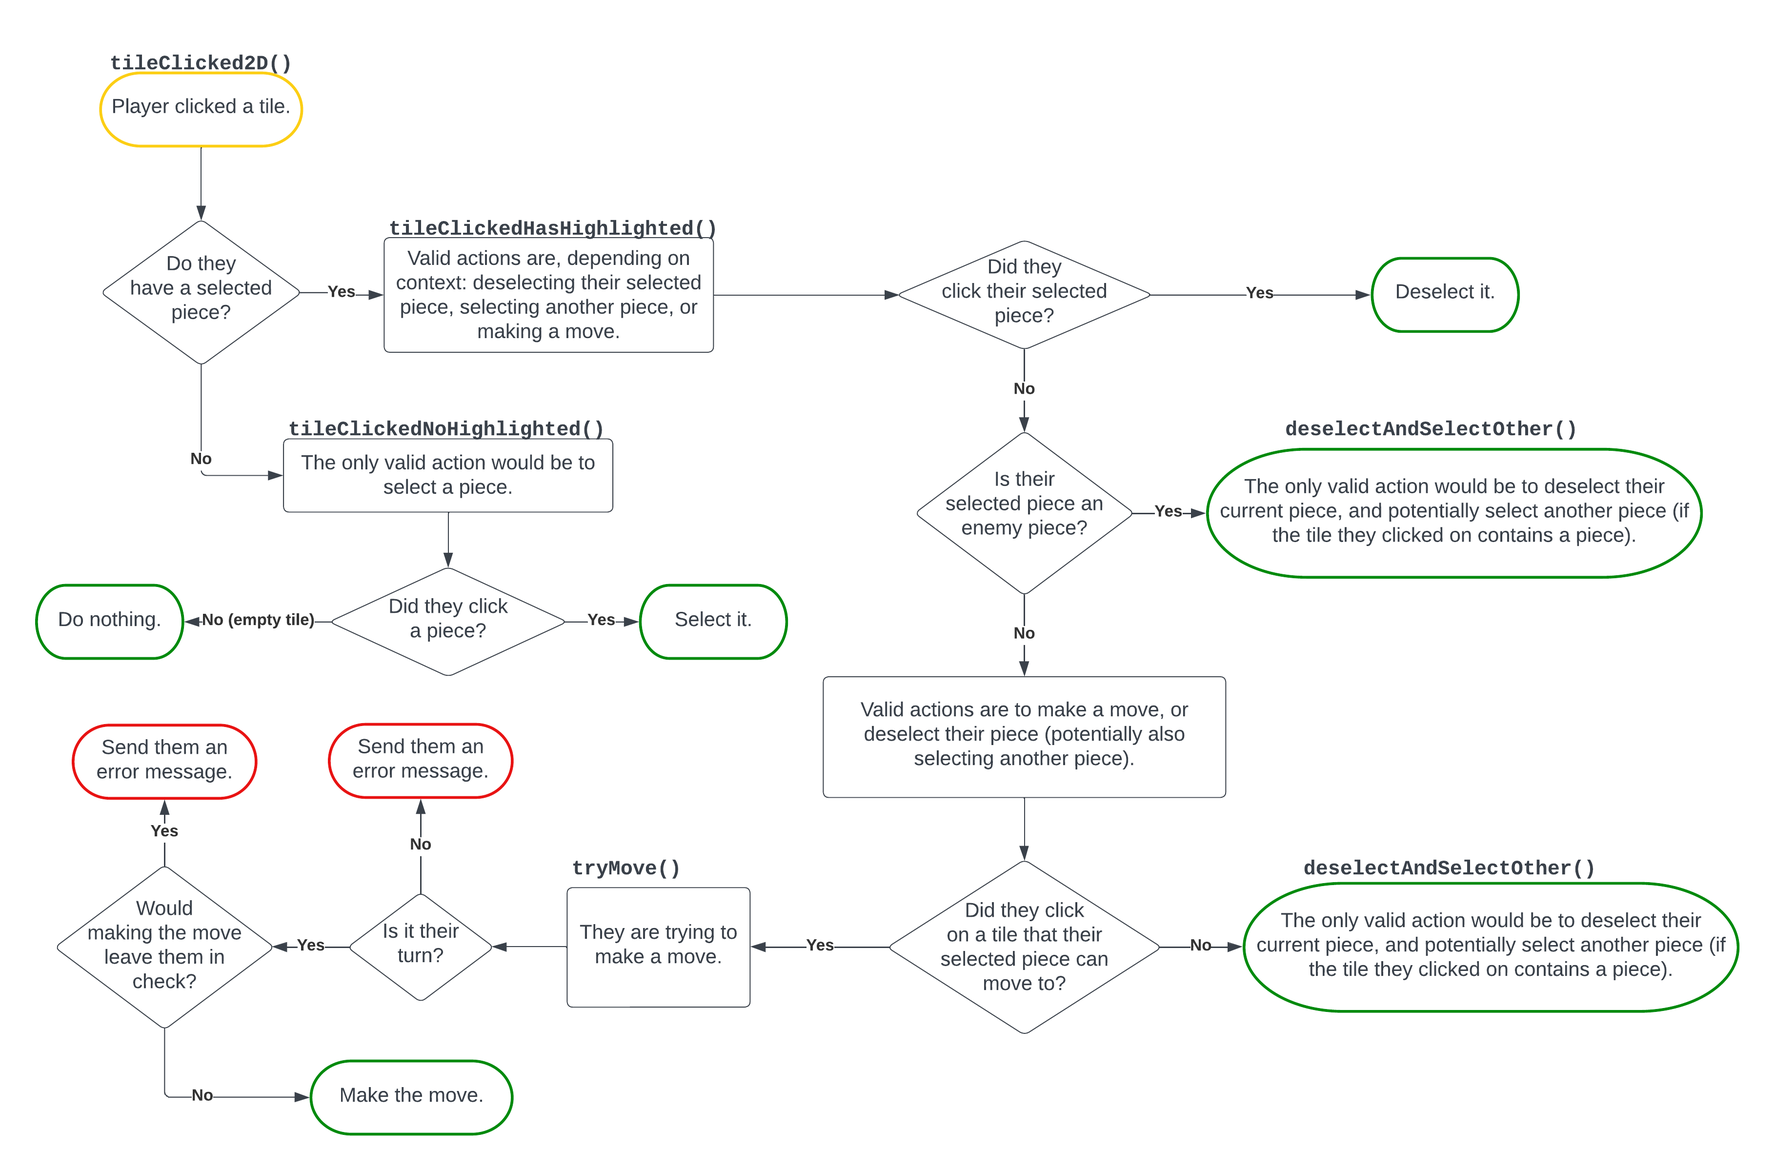
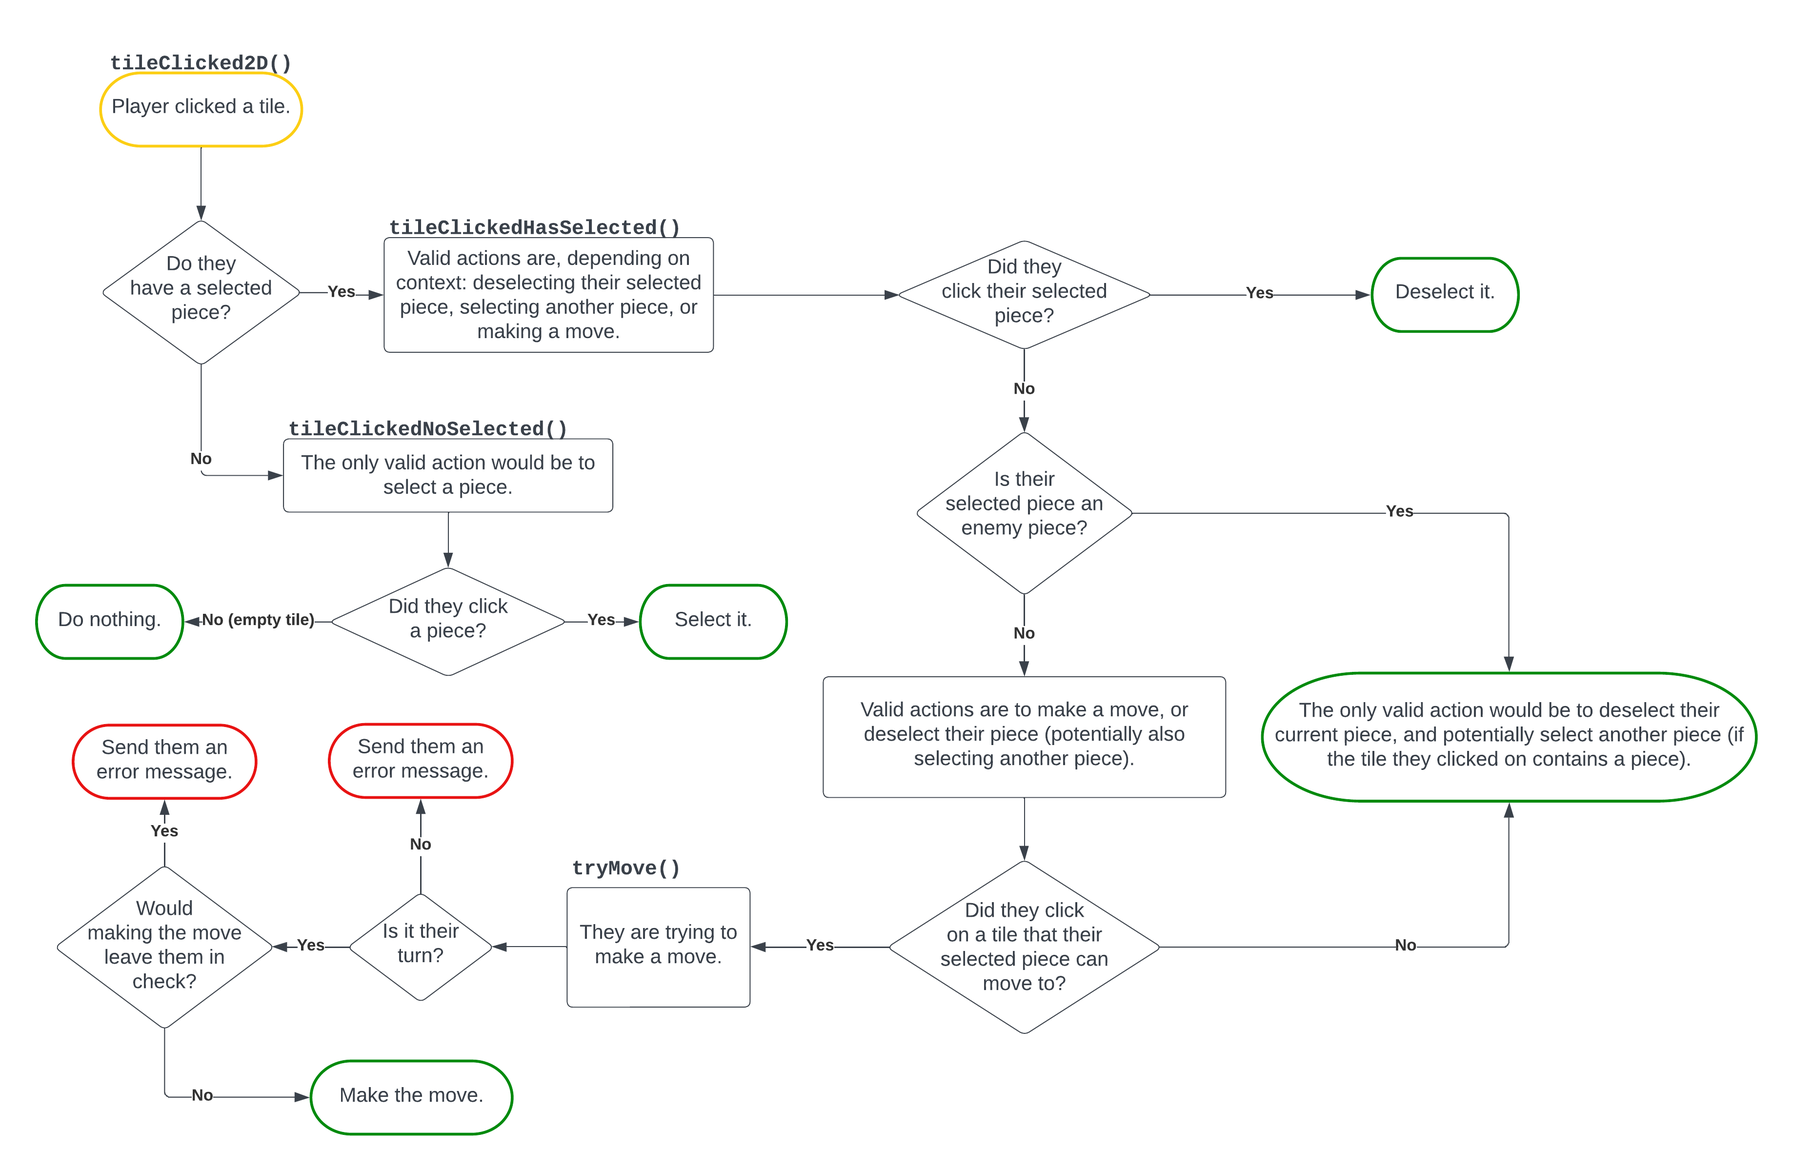
Commenting and code cleanup. Fixes small bug with Queen's movement.

diff --git a/src/main/java/com/github/alexandergillon/wegapi/server/chess/ChessServer.java b/src/main/java/com/github/alexandergillon/wegapi/server/chess/ChessServer.java
@@ -22,7 +22,7 @@ public class ChessServer extends BaseServer2D {
         private PlayerInterface2D player;  // shouldn't change, but maybe in the future, on disconnect
         private final ChessPiece.PlayerColor playerColor;
 
-        private TileCoordinate highlightedTile = null;  // todo: rename to selected
+        private TileCoordinate selectedTile = null;  // todo: rename to selected
 
         public ChessPlayerData(int playerNumber, PlayerInterface2D player, ChessPiece.PlayerColor playerColor) {
             this.playerNumber = playerNumber;
@@ -46,26 +46,26 @@ public class ChessServer extends BaseServer2D {
             return playerColor;
         }
 
-        public boolean hasHighlightedTile() {
-            return highlightedTile != null;
+        public boolean hasSelectedTile() {
+            return selectedTile != null;
         }
 
-        public TileCoordinate getHighlightedTile() {
-            return highlightedTile;
+        public TileCoordinate getSelectedTile() {
+            return selectedTile;
         }
 
-        public void setHighlightedTile(TileCoordinate highlightedTile) {
-            this.highlightedTile = highlightedTile;
+        public void setSelectedTile(TileCoordinate selectedTile) {
+            this.selectedTile = selectedTile;
         }
 
         @Override
         public String toString() {
-            return highlightedTile == null ? String.format("ChessPlayerData(player #%d, %s, with nothing selected)", playerNumber, playerColor)
-            : String.format("ChessPlayerData(player #%d, %s, with (%d, %d) selected", playerNumber, playerColor, highlightedTile.getRow(), highlightedTile.getCol());
+            return selectedTile == null ? String.format("ChessPlayerData(player #%d, %s, with nothing selected)", playerNumber, playerColor)
+            : String.format("ChessPlayerData(player #%d, %s, with (%d, %d) selected", playerNumber, playerColor, selectedTile.getRow(), selectedTile.getCol());
         }
     }
 
-    private final HashMap<Integer, ChessPlayerData> players = new HashMap<>(); // maps player number to their data
+    private final HashMap<Integer, ChessPlayerData> players = new HashMap<>(); // maps player number to chess-specific data
     private final AtomicInteger playerNumber = new AtomicInteger();
     private final ChessBoard chessBoard;
     private ChessPiece.PlayerColor currentPlayer = ChessPiece.PlayerColor.WHITE;
@@ -90,6 +90,7 @@ public class ChessServer extends BaseServer2D {
         }
     }
 
+    /** Registers the player. Players are shown the default setup of chess, and the game can begin. */
     @Override
     public void registerPlayer2D(PlayerInterface2D player) {
         int thisPlayerNumber = playerNumber.getAndUpdate(x -> 1-x);
@@ -106,46 +107,58 @@ public class ChessServer extends BaseServer2D {
         }
     }
 
-    private void deselectAndSelectOther(int row, int col, ChessPlayerData clickingPlayer, ChessPiece clickedPiece) {
-        System.out.println("deselectAndSelectOther()");
-
-        if (clickedPiece == null) {
-            clickingPlayer.setHighlightedTile(null);
-        } else {
-            clickingPlayer.setHighlightedTile(new TileCoordinate(row, col));
-        }
-    }
-
+    /**
+     * Updates the other player when a player successfully made a move. This means checking whether the move interfered
+     * with what the other player currently had selected, and if so, deselecting the other player's piece. For example,
+     * the other player may have a piece selected that was captured in the move that just occurred. Then we need to
+     * deselect the other player's piece as this piece no longer exists.
+     *
+     * @param fromRow the row that was moved from
+     * @param fromCol the column that was moved from
+     * @param toRow the row that was moved to
+     * @param toCol the column that was moved to
+     * @param movingPlayer the player who moved
+     */
     private void updateOtherPlayer(int fromRow, int fromCol, int toRow, int toCol, ChessPlayerData movingPlayer) {
         ChessPlayerData otherPlayer = players.get(1 - movingPlayer.getPlayerNumber());
-        if (!otherPlayer.hasHighlightedTile()) return;
+        if (!otherPlayer.hasSelectedTile()) return;
 
-        int highlightedRow = otherPlayer.getHighlightedTile().getRow();
-        int highlightedCol = otherPlayer.getHighlightedTile().getCol();
+        int selectedRow = otherPlayer.getSelectedTile().getRow();
+        int selectedCol = otherPlayer.getSelectedTile().getCol();
 
-        if (highlightedRow == fromRow && highlightedCol == fromCol) {
-            otherPlayer.setHighlightedTile(null);
-        } else if (highlightedRow == toRow && highlightedCol == toCol) {
-            otherPlayer.setHighlightedTile(null);
+        if (selectedRow == fromRow && selectedCol == fromCol) {
+            otherPlayer.setSelectedTile(null);
+        } else if (selectedRow == toRow && selectedCol == toCol) {
+            otherPlayer.setSelectedTile(null);
         }
     }
 
+    /**
+     * Attempts to make a move. This move must be legal, except for possibly leaving the king in check. If this move
+     * does in fact leave the king in check (and is hence actually an illegal move), the move fails, and the player is
+     * notified. Otherwise, the move succeeds, and the visuals of both players are updated accordingly.
+     *
+     * @param fromRow the row of the piece to move
+     * @param fromCol the column of the piece to move
+     * @param toRow the row of where to move to
+     * @param toCol the column of where to move to
+     * @param movingPlayer the player who made the move
+     */
     private void tryMove(int fromRow, int fromCol, int toRow, int toCol, ChessPlayerData movingPlayer) {
-        System.out.println("tryMove()");
         try {
             if (currentPlayer != movingPlayer.getPlayerColor()) {
                 movingPlayer.getPlayer().displayMessage("Not your turn.", true);
-                movingPlayer.setHighlightedTile(null);
+                movingPlayer.setSelectedTile(null);
             } else {
                 if (chessBoard.tryMove(fromRow, fromCol, toRow, toCol)) {
-                    movingPlayer.setHighlightedTile(null);
+                    movingPlayer.setSelectedTile(null);
                     updateOtherPlayer(fromRow, fromCol, toRow, toCol, movingPlayer);
 
                     if (currentPlayer == ChessPiece.PlayerColor.WHITE) currentPlayer = ChessPiece.PlayerColor.BLACK;
                     else currentPlayer = ChessPiece.PlayerColor.WHITE;
                 } else {
                     movingPlayer.getPlayer().displayMessage("Illegal move: leaves king in check.", true);
-                    movingPlayer.setHighlightedTile(null);
+                    movingPlayer.setSelectedTile(null);
                 }
             }
         } catch (RemoteException e) {
@@ -153,46 +166,88 @@ public class ChessServer extends BaseServer2D {
         }
     }
 
-    private void tileClickedHasHighlighted(int row, int col, TileCoordinate highlightedTile, ChessPlayerData clickingPlayer) {
-        System.out.println("tileClickedHasHighlighted()");
-        if (row == highlightedTile.getRow() && col == highlightedTile.getCol()) {
-            // clicked their highlighted tile: unhighlight
+    /**
+     * This function is called when a player has clicked a tile when they have a piece selected. It updates the game
+     * state based on where the player clicked. <br> <br>
+     *
+     * If they clicked their selected piece, it deselects that piece. If they clicked a tile that their selected piece
+     * might be able to move to, it tries to make that move (this could fail if the move would leave their king in
+     * check). Otherwise, it deselects their currently selected piece (if they clicked an empty tile that their
+     * piece cannot move to), or selects a different piece (if they clicked another piece that their piece cannot
+     * move to).
+     *
+     * @param row the row that the player clicked
+     * @param col the column that the player clicked
+     * @param selectedTile the player's selected tile coordinates
+     * @param clickingPlayer the player who made the click
+     */
+    private void tileClickedHasSelected(int row, int col, TileCoordinate selectedTile, ChessPlayerData clickingPlayer) {
+        if (row == selectedTile.getRow() && col == selectedTile.getCol()) {
+            // clicked their selected tile: deselect
             System.out.println("player deselcted");
-            clickingPlayer.setHighlightedTile(null);
+            clickingPlayer.setSelectedTile(null);
         } else {
             // clicked another tile
             ChessPiece clickedPiece = chessBoard.pieceAt(row, col);
-            ChessPiece highlightedPiece = chessBoard.pieceAt(highlightedTile.getRow(), highlightedTile.getCol());
+            ChessPiece selectedPiece = chessBoard.pieceAt(selectedTile.getRow(), selectedTile.getCol());
 
-            if (clickingPlayer.getPlayerColor() != highlightedPiece.getPlayerColor()) {
-                // clicked another tile, and their highlighted piece is an enemy piece. unhighlight the piece,
-                // and perhaps highlight another
-                deselectAndSelectOther(row, col, clickingPlayer, clickedPiece);
-            } else {
-                // clicked another tile, and their highlighted piece is friendly. check if they are trying to make a move,
-                // or selecting another piece
-                if (chessBoard.canMove(highlightedTile.getRow(), highlightedTile.getCol(), row, col)) {
-                    // their highlighted piece can make the move. try to make it
-                    tryMove(highlightedTile.getRow(), highlightedTile.getCol(), row, col, clickingPlayer);
+            if (clickingPlayer.getPlayerColor() != selectedPiece.getPlayerColor()) {
+                // clicked another tile, and their selected piece is an enemy piece. deselect the piece,
+                // and perhaps select another
+                if (clickedPiece == null) {
+                    clickingPlayer.setSelectedTile(null);
                 } else {
-                    deselectAndSelectOther(row, col, clickingPlayer, clickedPiece);
+                    clickingPlayer.setSelectedTile(new TileCoordinate(row, col));
+                }
+            } else {
+                // clicked another tile, and their selected piece is friendly. check if they are trying to make a move,
+                // or selecting another piece
+                if (chessBoard.canMove(selectedTile.getRow(), selectedTile.getCol(), row, col)) {
+                    // their selected piece can make the move. try to make it
+                    tryMove(selectedTile.getRow(), selectedTile.getCol(), row, col, clickingPlayer);
+                } else {
+                    // not trying to make a move: deselect their piece and potentially select another
+                    if (clickedPiece == null) {
+                        clickingPlayer.setSelectedTile(null);
+                    } else {
+                        clickingPlayer.setSelectedTile(new TileCoordinate(row, col));
+                    }
                 }
             }
         }
     }
 
-    private void tileClickedNoHighlighted(int row, int col, ChessPlayerData chessPlayerData) {
-        System.out.println("tileClickedNoHighlighted()");
+    /**
+     * This function is called when a player has clicked a tile when they do not have a piece selected. It updates
+     * the game state based on where the player clicked. Essentially, if they clicked a piece, it is selected,
+     * and otherwise nothing happens.
+     *
+     * @param row the row that the player clicked
+     * @param col the column that the player clicked
+     * @param clickingPlayer the player who made the click
+     */
+    private void tileClickedNoSelected(int row, int col, ChessPlayerData clickingPlayer) {
         ChessPiece clickedPiece = chessBoard.pieceAt(row, col);
         if (clickedPiece == null) {
-            return; // no highlighted piece, and the player clicked an empty square
+            return; // no selected piece, and the player clicked an empty square
         } else {
-            chessPlayerData.setHighlightedTile(new TileCoordinate(row, col));
+            clickingPlayer.setSelectedTile(new TileCoordinate(row, col));
         }
     }
 
+    /**
+     * Redraws tiles for a player, based on what changed. This function takes the state of the game before some change,
+     * and the state after (both as lists of Tile2Ds). Then, any tiles that were present before and not afterwards are
+     * deleted, and any tiles that have changed icons are redrawn for the user. This therefore avoids redrawing the
+     * entire game for the user each time a change is made, which is faster and looks better.
+     *
+     * @param player the player whose game to redraw
+     * @param beforeTiles the state of the game before some change
+     * @param afterTiles the state of the game after some change
+     */
     private void redrawPlayer(ChessPlayerData player, HashMap<TileCoordinate, Tile2D> beforeTiles,
                               HashMap<TileCoordinate, Tile2D> afterTiles) {
+        // update ('create') any tiles whose icons changed
         ArrayList<Tile2D> tilesToCreate = new ArrayList<>();
         for (TileCoordinate coords : afterTiles.keySet()) {
             if (!beforeTiles.containsKey(coords)) {
@@ -206,6 +261,7 @@ public class ChessServer extends BaseServer2D {
             }
         }
 
+        // delete any tiles which were present before but not after
         HashSet<TileCoordinate> deletedCoordinates = new HashSet<>(beforeTiles.keySet());
         deletedCoordinates.removeAll(afterTiles.keySet());
         ArrayList<TileCoordinate> tilesToDelete = new ArrayList<>(deletedCoordinates);
@@ -222,10 +278,9 @@ public class ChessServer extends BaseServer2D {
         }
     }
 
+    /** Processes a player's click. Selects/deselects/moves pieces appropriately. */
     @Override
     public void tileClicked2D(int row, int col, PlayerData2D clickingPlayerData) {
-        System.out.println("tileClicked2D()");
-
         ChessPlayerData clickingPlayer = players.get(clickingPlayerData.getPlayerNumber());
         ChessPlayerData otherPlayer = players.get(1 - clickingPlayerData.getPlayerNumber());
         if (otherPlayer == null) {
@@ -237,6 +292,7 @@ public class ChessServer extends BaseServer2D {
             }
         }
 
+        // make sure the remote object we have on file corresponds, as this is what we use to update the player
         if (!clickingPlayerData.getPlayer().equals(clickingPlayer.getPlayer())) {
             System.out.println("Player remote objects do not agree, exiting.");
             System.exit(1);
@@ -251,10 +307,11 @@ public class ChessServer extends BaseServer2D {
             col = (ChessBoard.NUM_COLS-1) - col;
         }
 
-        if (clickingPlayer.hasHighlightedTile()) {
-            tileClickedHasHighlighted(row, col, clickingPlayer.getHighlightedTile(), clickingPlayer);
+        // process the click
+        if (clickingPlayer.hasSelectedTile()) {
+            tileClickedHasSelected(row, col, clickingPlayer.getSelectedTile(), clickingPlayer);
         } else {
-            tileClickedNoHighlighted(row, col, clickingPlayer);
+            tileClickedNoSelected(row, col, clickingPlayer);
         }
 
         HashMap<TileCoordinate, Tile2D> afterTilesClickingPlayer = chessBoard.getCoordinatesToTiles(clickingPlayer);

diff --git a/src/main/java/com/github/alexandergillon/wegapi/server/chess/ChessBoard.java b/src/main/java/com/github/alexandergillon/wegapi/server/chess/ChessBoard.java
@@ -1,10 +1,8 @@
 package com.github.alexandergillon.wegapi.server.chess;
 
-import com.github.alexandergillon.wegapi.game.Tile;
 import com.github.alexandergillon.wegapi.game.Tile2D;
 import com.github.alexandergillon.wegapi.game.TileCoordinate;
 
-import java.lang.reflect.Array;
 import java.util.ArrayList;
 import java.util.HashMap;
 
@@ -358,7 +356,7 @@ class ChessBoard {
             case ROOK: return canMoveRook(fromRow, fromCol, toRow, toCol, chessPiece.getPlayerColor());
             case KNIGHT: return canMoveKnight(fromRow, fromCol, toRow, toCol, chessPiece.getPlayerColor());
             case BISHOP: return canMoveBishop(fromRow, fromCol, toRow, toCol, chessPiece.getPlayerColor());
-            case QUEEN: return canMoveKnight(fromRow, fromCol, toRow, toCol, chessPiece.getPlayerColor())
+            case QUEEN: return canMoveRook(fromRow, fromCol, toRow, toCol, chessPiece.getPlayerColor())
                             || canMoveBishop(fromRow, fromCol, toRow, toCol, chessPiece.getPlayerColor());
             case KING: return canMoveKing(fromRow, fromCol, toRow, toCol, chessPiece.getPlayerColor());
             default: throw new AssertionError("Unrecognized chess piece type in ChessBoard.canMove()");
@@ -595,8 +593,14 @@ class ChessBoard {
        }
     }
 
+    /**
+     * Returns whether a player is in check.
+     *
+     * @param playerColor the player to check if in check
+     * @return whether that player is in check
+     */
     private boolean isInCheck(ChessPiece.PlayerColor playerColor) {
-        // not the most efficient, but reduces the number of data structures we need to maintain
+        // not the most efficient, but reduces the complexity of other code
         TileCoordinate kingPos = null;
         boolean kingFound = false;
         for (int row = 0; row < NUM_ROWS && !kingFound; row++) {
@@ -630,16 +634,27 @@ class ChessBoard {
      * @param toRow row to move to
      * @param toCol column to move to
      */
-    void move(int fromRow, int fromCol, int toRow, int toCol) {
+    private void move(int fromRow, int fromCol, int toRow, int toCol) {
         board[toRow][toCol] = board[fromRow][fromCol];
         board[fromRow][fromCol] = null;
     }
 
+    /**
+     * Attempts to make a move. This move must be legal, except for possibly leaving the king in check. If this move
+     * does in fact leave the king in check (and is hence actually an illegal move), the move fails, and this function
+     * returns false. Otherwise, the move succeeds, and this function returns true.
+     *
+     * @param fromRow the row of the piece to move
+     * @param fromCol the column of the piece to move
+     * @param toRow the row of where to move to
+     * @param toCol the column of where to move to
+     * @return whether the move succeeded
+     */
     boolean tryMove(int fromRow, int fromCol, int toRow, int toCol) {
         ChessPiece chessPiece = board[fromRow][fromCol];
         move(fromRow, fromCol, toRow, toCol);
         if (isInCheck(chessPiece.getPlayerColor())) {
-            move(toRow, toCol, fromRow, fromCol);
+            move(toRow, toCol, fromRow, fromCol);  // revert
             return false;
         } else {
             return true;
@@ -755,15 +770,16 @@ class ChessBoard {
     }
 
     /**
-     * Get a player's highlighted tiles, as Tile2Ds.
+     * Get a player's highlighted tiles, as Tile2Ds. These are tiles that appear highlighted to the player based
+     * on what piece they have selected, to indicate which moves they are able to make.
      *
      * @param player the player, whose highlighted tiles to get
      * @return the highlighted tiles of that player
      */
     private ArrayList<Tile2D> getHighlightedTiles(ChessServer.ChessPlayerData player) {
-        if (!player.hasHighlightedTile()) return new ArrayList<>();
-        int row = player.getHighlightedTile().getRow();  // tile of the player's highlighted piece
-        int col = player.getHighlightedTile().getCol();  // tile of
+        if (!player.hasSelectedTile()) return new ArrayList<>();
+        int row = player.getSelectedTile().getRow();  // row of the player's selected piece
+        int col = player.getSelectedTile().getCol();  // column of the player's selected piece
 
         ChessPiece.PlayerColor playerColor = player.getPlayerColor();
         boolean isFriendly = playerColor == board[row][col].getPlayerColor();
@@ -830,8 +846,4 @@ class ChessBoard {
     ArrayList<Tile2D> toTiles(ChessServer.ChessPlayerData viewingPlayer) {
         return new ArrayList<>(getCoordinatesToTiles(viewingPlayer).values());
     }
-
-
-
-
 }

diff --git a/src/main/java/com/github/alexandergillon/wegapi/client/Client.java b/src/main/java/com/github/alexandergillon/wegapi/client/Client.java
@@ -93,6 +93,15 @@ public class Client {
         }
     }
 
+    /**
+     * Reads the daemon number from a file ([current directory]/GAME_DATA_DIR_NAME/DAEMON_NUMBER_FILENAME). This
+     * tells the client which daemon to connect to, as there may be more than one running on the machine. <br> <br>
+     *
+     * The format of this file is a magic string, found at DaemonInterface.DAEMON_NUMBER_MAGIC, followed by an integer
+     * (as raw binary, not ASCII), that was written by a DataOutputStream and can be read by a DataInputStream.
+     *
+     * @return The daemon number of the daemon watching over this game.
+     */
     private static int readDaemonNumber() {
         Path gameDataDirPath = Paths.get(".").toAbsolutePath().normalize().resolve(DaemonInterface.GAME_DATA_DIR_NAME);  // todo: pass path from c++
         Util.checkExists(gameDataDirPath, true);
